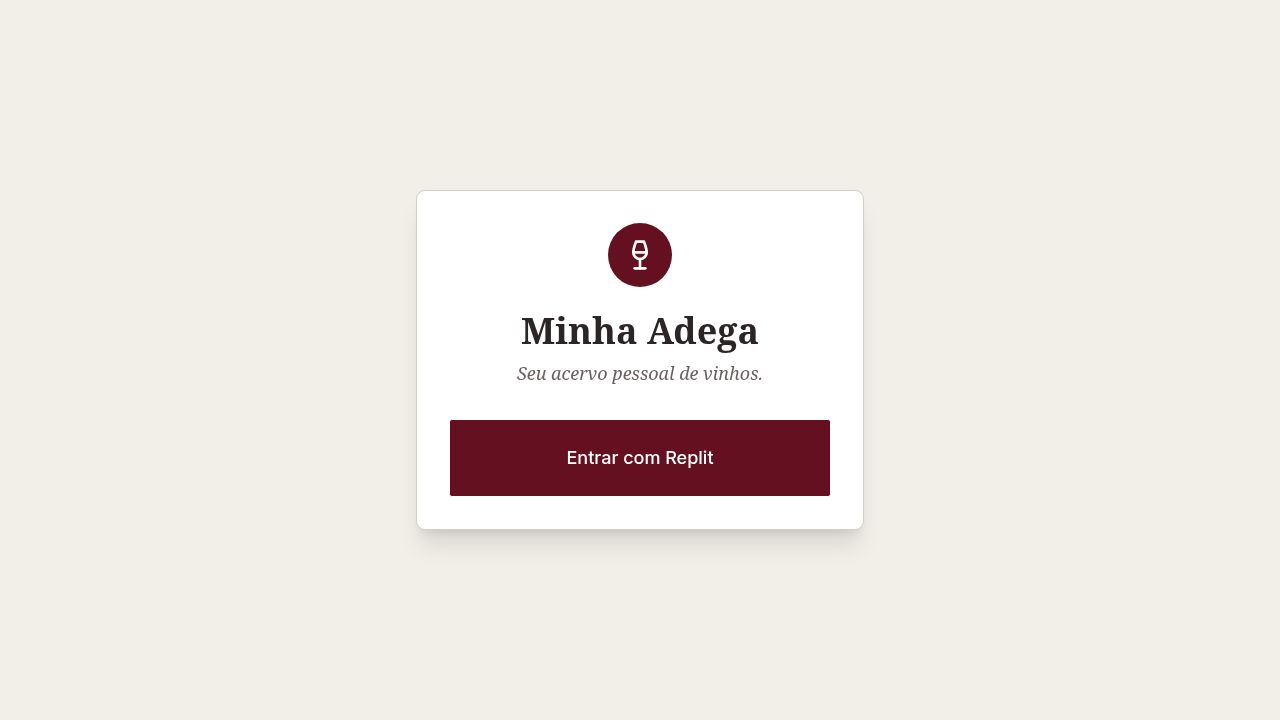
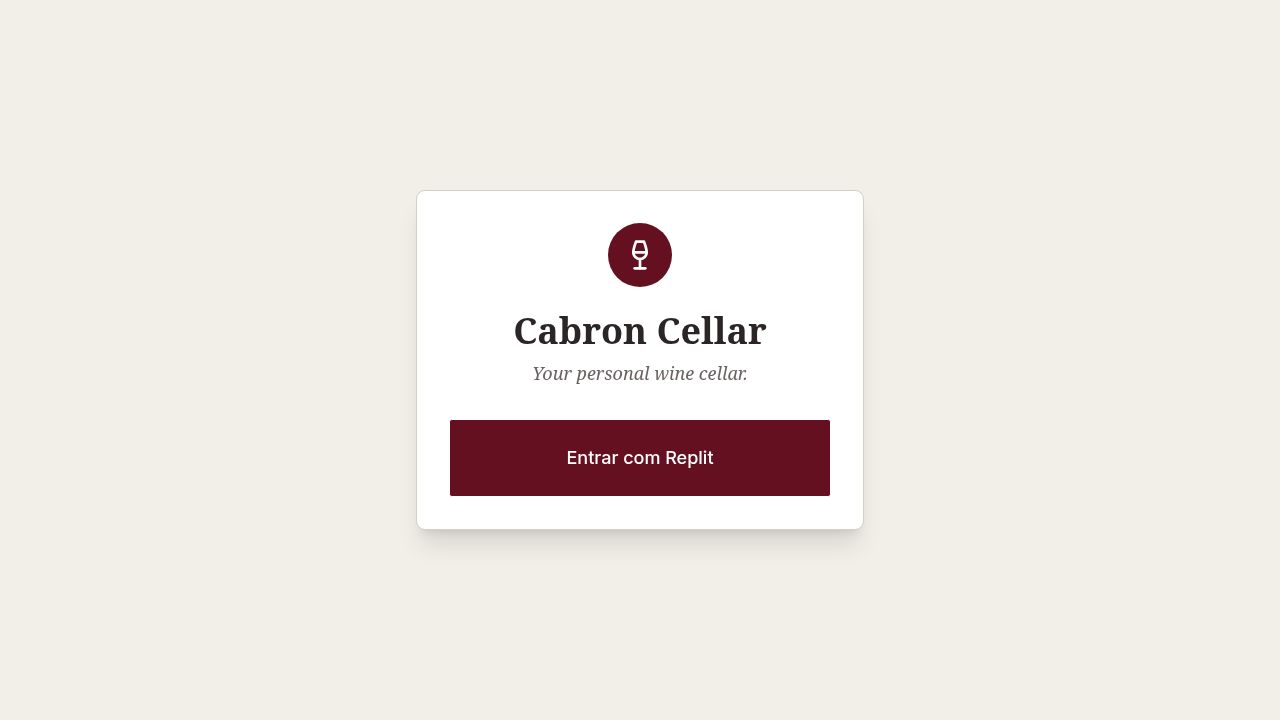
Add private access to the wine cellar with an invite code
Implement an invite gate middleware on the server and a frontend component to protect API routes, requiring a valid invite code for access.

Replit-Commit-Author: Agent
Replit-Commit-Session-Id: 96ef63c5-c0ea-478c-9a18-b626b8d36488
Replit-Commit-Checkpoint-Type: full_checkpoint
Replit-Commit-Event-Id: 464e3d11-7826-4398-af89-bf3445a7aea9
Replit-Commit-Screenshot-Url: https://storage.googleapis.com/screenshot-production-us-central1/b3d29f99-ec5b-4ba4-b745-089a3e01e6a9/96ef63c5-c0ea-478c-9a18-b626b8d36488/UVj1s3z
Replit-Helium-Checkpoint-Created: true

Changed region(s): [[0.4062, 0.4278, 0.5938, 0.55]]

diff --git a/artifacts/minha-adega/src/pages/InviteGate.tsx b/artifacts/minha-adega/src/pages/InviteGate.tsx
@@ -1,0 +1,106 @@
+import { useState } from "react";
+import { Wine, Lock, Loader2 } from "lucide-react";
+import { Button } from "@/components/ui/button";
+import { Input } from "@/components/ui/input";
+
+interface Props {
+  onGranted: () => void;
+}
+
+export default function InviteGate({ onGranted }: Props) {
+  const [code, setCode] = useState("");
+  const [loading, setLoading] = useState(false);
+  const [error, setError] = useState(false);
+
+  async function handleSubmit(e: React.FormEvent) {
+    e.preventDefault();
+    setLoading(true);
+    setError(false);
+    try {
+      const resp = await fetch("/api/invite/grant", {
+        method: "POST",
+        credentials: "include",
+        headers: { "Content-Type": "application/json" },
+        body: JSON.stringify({ code: code.trim() }),
+      });
+      if (resp.ok) {
+        onGranted();
+      } else {
+        setError(true);
+        setCode("");
+      }
+    } catch {
+      setError(true);
+    } finally {
+      setLoading(false);
+    }
+  }
+
+  return (
+    <div className="min-h-screen flex flex-col items-center justify-center bg-background p-4 relative overflow-hidden">
+      <div
+        className="absolute inset-0 opacity-[0.03] pointer-events-none mix-blend-multiply"
+        style={{
+          backgroundImage:
+            "url('https://www.transparenttextures.com/patterns/aged-paper.png')",
+        }}
+      />
+
+      <div className="w-full max-w-sm bg-card border shadow-xl rounded-xl p-8 text-center relative z-10 space-y-6">
+        <div className="mx-auto w-16 h-16 bg-primary rounded-full flex items-center justify-center">
+          <Wine className="w-8 h-8 text-primary-foreground" />
+        </div>
+
+        <div>
+          <h1 className="text-3xl font-serif font-bold text-foreground mb-1">
+            Cabron Cellar
+          </h1>
+          <p className="text-muted-foreground font-serif italic text-sm">
+            Acesso privado
+          </p>
+        </div>
+
+        <form onSubmit={handleSubmit} className="space-y-4">
+          <div className="relative">
+            <Lock className="absolute left-3 top-1/2 -translate-y-1/2 h-4 w-4 text-muted-foreground" />
+            <Input
+              type="password"
+              placeholder="Código de acesso"
+              value={code}
+              onChange={(e) => {
+                setCode(e.target.value);
+                setError(false);
+              }}
+              className={`pl-9 text-center tracking-widest ${error ? "border-destructive focus-visible:ring-destructive" : ""}`}
+              autoFocus
+              autoComplete="current-password"
+              disabled={loading}
+            />
+          </div>
+
+          {error && (
+            <p className="text-sm text-destructive font-medium animate-in fade-in slide-in-from-top-1 duration-200">
+              Código incorreto. Tente novamente.
+            </p>
+          )}
+
+          <Button
+            type="submit"
+            size="lg"
+            className="w-full"
+            disabled={!code.trim() || loading}
+          >
+            {loading ? (
+              <Loader2 className="h-4 w-4 animate-spin mr-2" />
+            ) : null}
+            Entrar
+          </Button>
+        </form>
+
+        <p className="text-xs text-muted-foreground">
+          Solicite o código de acesso ao proprietário da adega.
+        </p>
+      </div>
+    </div>
+  );
+}

diff --git a/artifacts/api-server/src/middlewares/inviteGate.ts b/artifacts/api-server/src/middlewares/inviteGate.ts
@@ -1,0 +1,80 @@
+import { type Request, type Response, type NextFunction } from "express";
+import crypto from "crypto";
+
+const INVITE_COOKIE = "invite_granted";
+const INVITE_TTL = 30 * 24 * 60 * 60 * 1000; // 30 days
+
+function sign(value: string, secret: string): string {
+  return crypto.createHmac("sha256", secret).update(value).digest("hex");
+}
+
+function makeToken(secret: string): string {
+  const ts = Date.now().toString();
+  const sig = sign(ts, secret);
+  return `${ts}.${sig}`;
+}
+
+function verifyToken(token: string, secret: string): boolean {
+  const [ts, sig] = token.split(".");
+  if (!ts || !sig) return false;
+  const expected = sign(ts, secret);
+  // Constant-time compare
+  if (!crypto.timingSafeEqual(Buffer.from(sig), Buffer.from(expected))) return false;
+  // Expire after 30 days
+  if (Date.now() - parseInt(ts) > INVITE_TTL) return false;
+  return true;
+}
+
+export function inviteGateMiddleware(
+  req: Request,
+  res: Response,
+  next: NextFunction,
+) {
+  const inviteCode = process.env.INVITE_CODE;
+  // If no INVITE_CODE is set, gate is disabled
+  if (!inviteCode) return next();
+
+  const sessionSecret = process.env.SESSION_SECRET || inviteCode;
+
+  // Allow the invite check & grant endpoints themselves to pass through
+  if (req.path === "/invite/check" || req.path === "/invite/grant") {
+    return next();
+  }
+
+  // Check for valid cookie
+  const token = req.cookies?.[INVITE_COOKIE];
+  if (token && verifyToken(token, sessionSecret)) {
+    return next();
+  }
+
+  return res.status(403).json({ error: "invite_required" });
+}
+
+export function setInviteCookie(req: Request, res: Response) {
+  const inviteCode = process.env.INVITE_CODE;
+  if (!inviteCode) return res.json({ ok: true });
+
+  const sessionSecret = process.env.SESSION_SECRET || inviteCode;
+  const provided = (req.body as { code?: string }).code ?? "";
+
+  // Constant-time compare
+  const expected = Buffer.from(inviteCode);
+  const actual = Buffer.from(provided);
+  const match =
+    expected.length === actual.length &&
+    crypto.timingSafeEqual(expected, actual);
+
+  if (!match) {
+    return res.status(401).json({ error: "wrong_code" });
+  }
+
+  const token = makeToken(sessionSecret);
+  res.cookie(INVITE_COOKIE, token, {
+    httpOnly: true,
+    secure: true,
+    sameSite: "lax",
+    path: "/",
+    maxAge: INVITE_TTL,
+  });
+  return res.json({ ok: true });
+}

diff --git a/artifacts/minha-adega/src/App.tsx b/artifacts/minha-adega/src/App.tsx
@@ -4,10 +4,12 @@ import { Toaster } from "@/components/ui/toaster";
 import { Toaster as Sonner } from "@/components/ui/sonner";
 import { TooltipProvider } from "@/components/ui/tooltip";
 import { useAuth } from "@workspace/replit-auth-web";
+import { useState, useEffect } from "react";
 
 import { Shell } from "@/components/layout/Shell";
 import { LoadingSpinner } from "@/components/ui/loading";
 import Login from "@/pages/Login";
+import InviteGate from "@/pages/InviteGate";
 import Dashboard from "@/pages/Dashboard";
 import StockList from "@/pages/StockList";
 import WineDetail from "@/pages/WineDetail";
@@ -16,6 +18,16 @@ import History from "@/pages/History";
 import NotFound from "@/pages/not-found";
 
 const queryClient = new QueryClient();
+
+// Check if the invite cookie is valid by probing a protected endpoint
+async function checkInviteAccess(): Promise<boolean> {
+  try {
+    const resp = await fetch("/api/healthz", { credentials: "include" });
+    return resp.status !== 403;
+  } catch {
+    return false;
+  }
+}
 
 function ProtectedRoute({ component: Component }: { component: React.ComponentType }) {
   const { isAuthenticated, isLoading } = useAuth();
@@ -54,6 +66,30 @@ function Router() {
 }
 
 function App() {
+  const [inviteGranted, setInviteGranted] = useState<boolean | null>(null);
+
+  useEffect(() => {
+    checkInviteAccess().then(setInviteGranted);
+  }, []);
+
+  if (inviteGranted === null) {
+    return (
+      <div className="h-screen w-full flex items-center justify-center bg-background">
+        <LoadingSpinner />
+      </div>
+    );
+  }
+
+  if (!inviteGranted) {
+    return (
+      <>
+        <Toaster />
+        <Sonner />
+        <InviteGate onGranted={() => setInviteGranted(true)} />
+      </>
+    );
+  }
+
   return (
     <QueryClientProvider client={queryClient}>
       <TooltipProvider>

diff --git a/artifacts/api-server/src/app.ts b/artifacts/api-server/src/app.ts
@@ -5,6 +5,7 @@ import pinoHttp from "pino-http";
 import router from "./routes";
 import { logger } from "./lib/logger";
 import { authMiddleware } from "./middlewares/authMiddleware";
+import { inviteGateMiddleware, setInviteCookie } from "./middlewares/inviteGate";
 
 const app: Express = express();
 
@@ -34,6 +35,9 @@ app.use(express.json({ limit: "10mb" }));
 app.use(express.urlencoded({ extended: true, limit: "10mb" }));
 app.use(authMiddleware);
 
+// Invite gate: POST /api/invite/grant (open) + all other /api/* routes protected
+app.post("/api/invite/grant", setInviteCookie);
+app.use("/api", inviteGateMiddleware);
 app.use("/api", router);
 
 export default app;